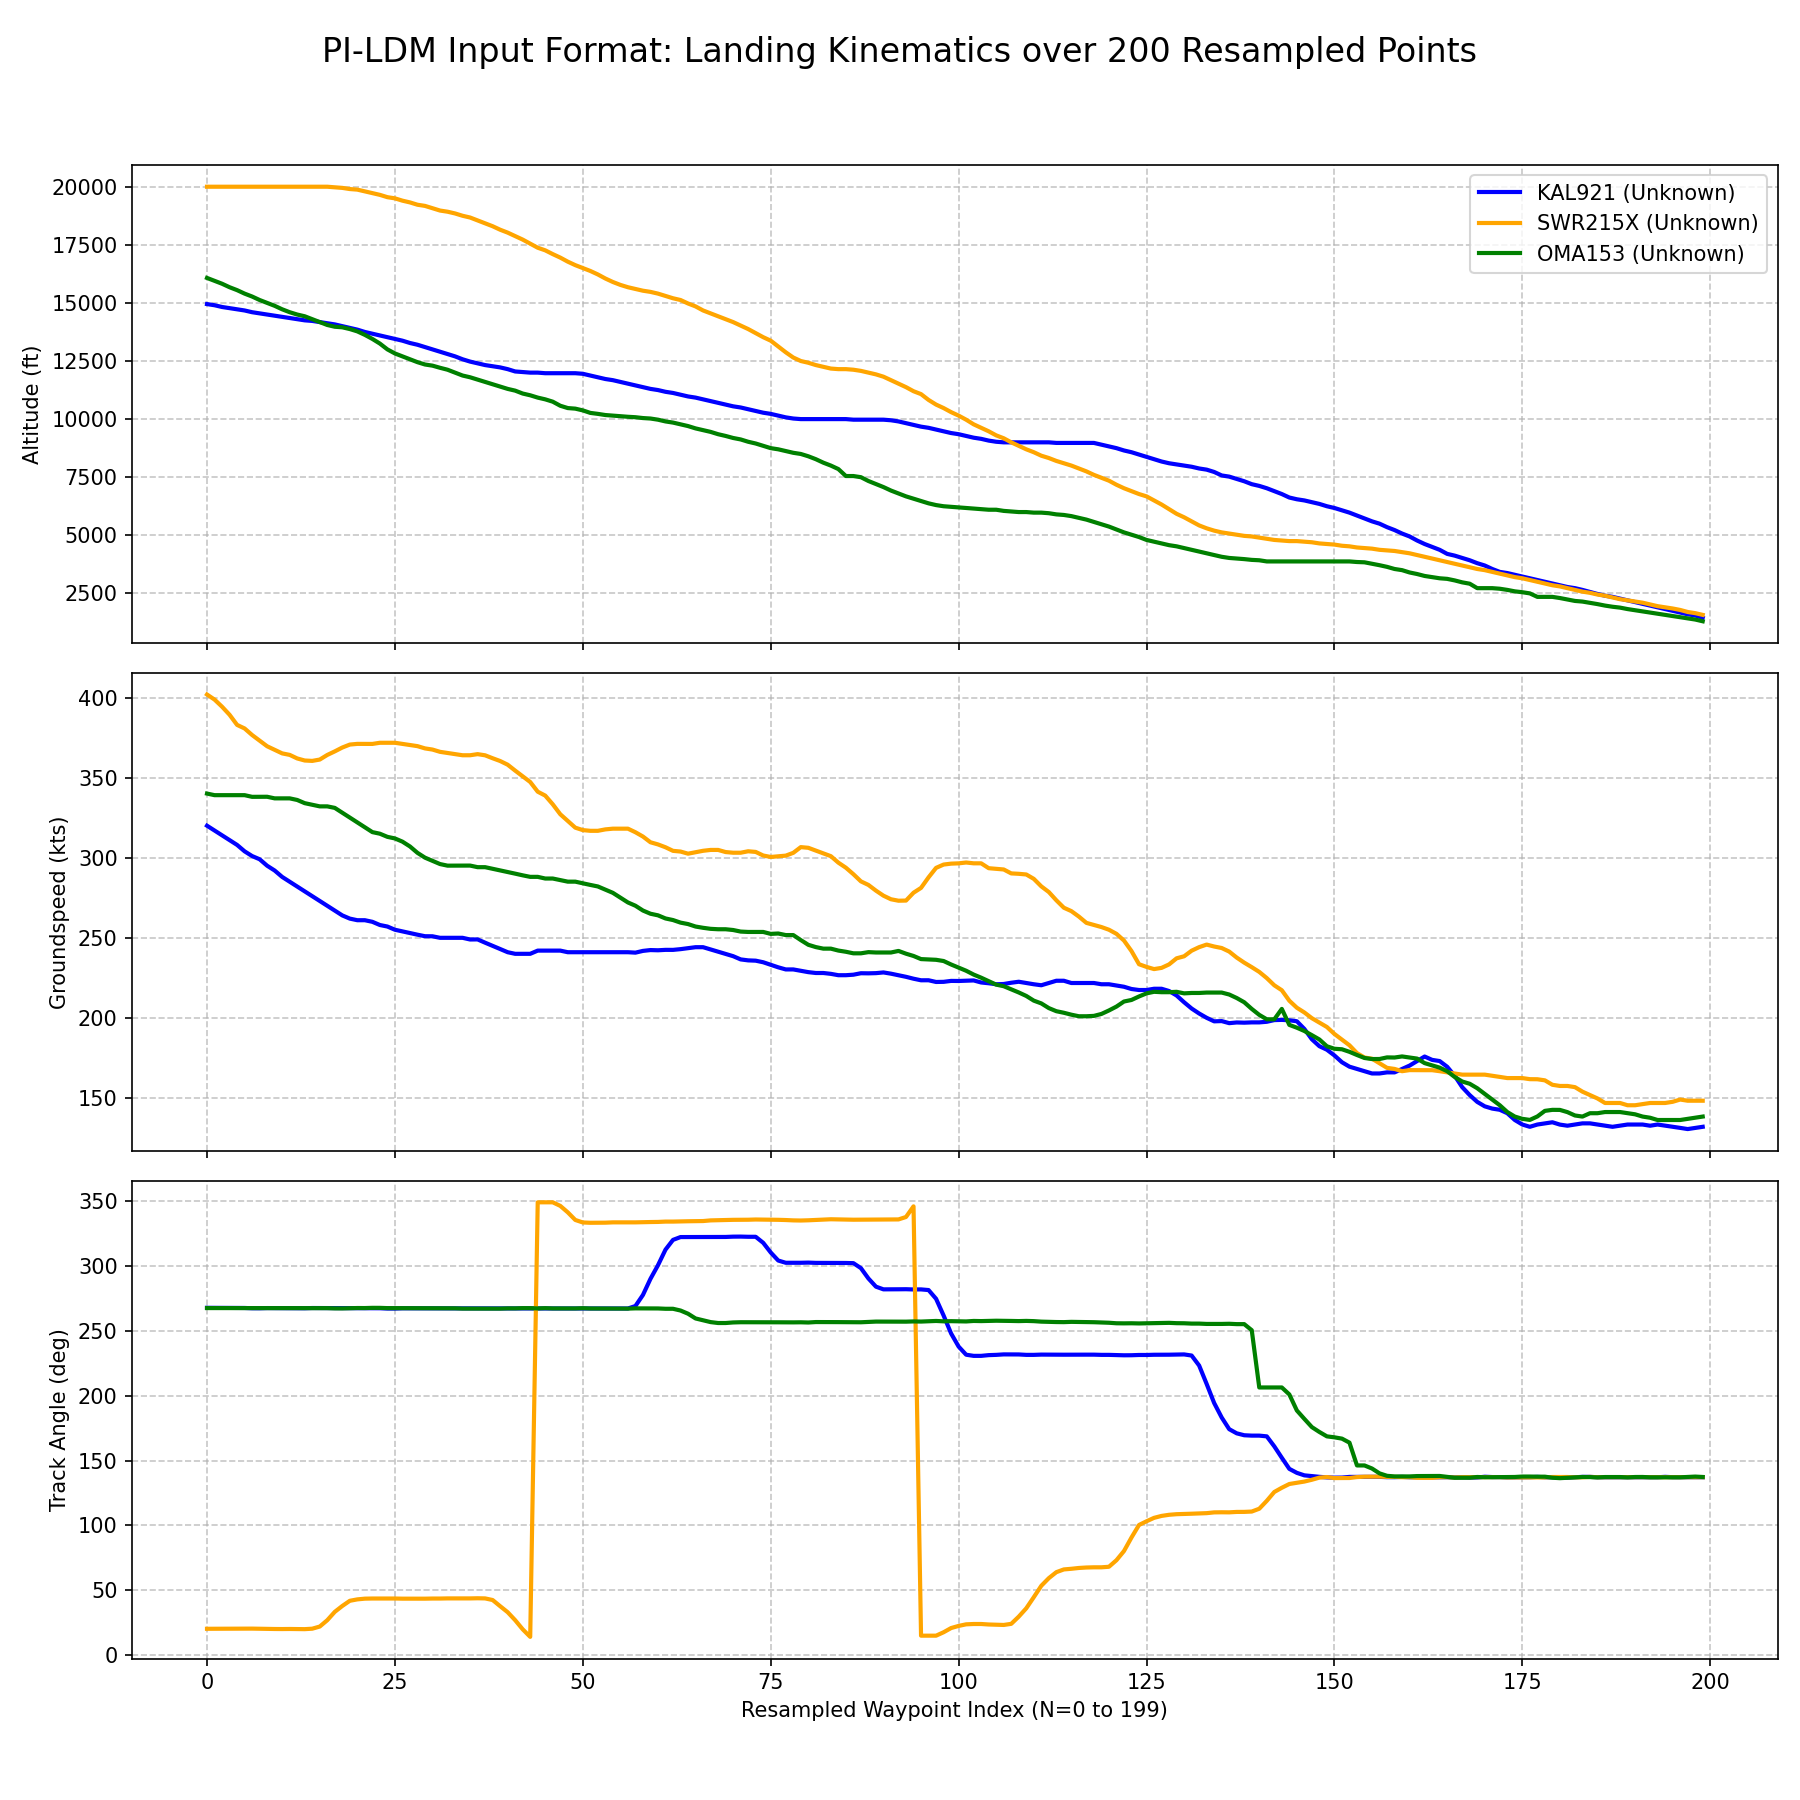
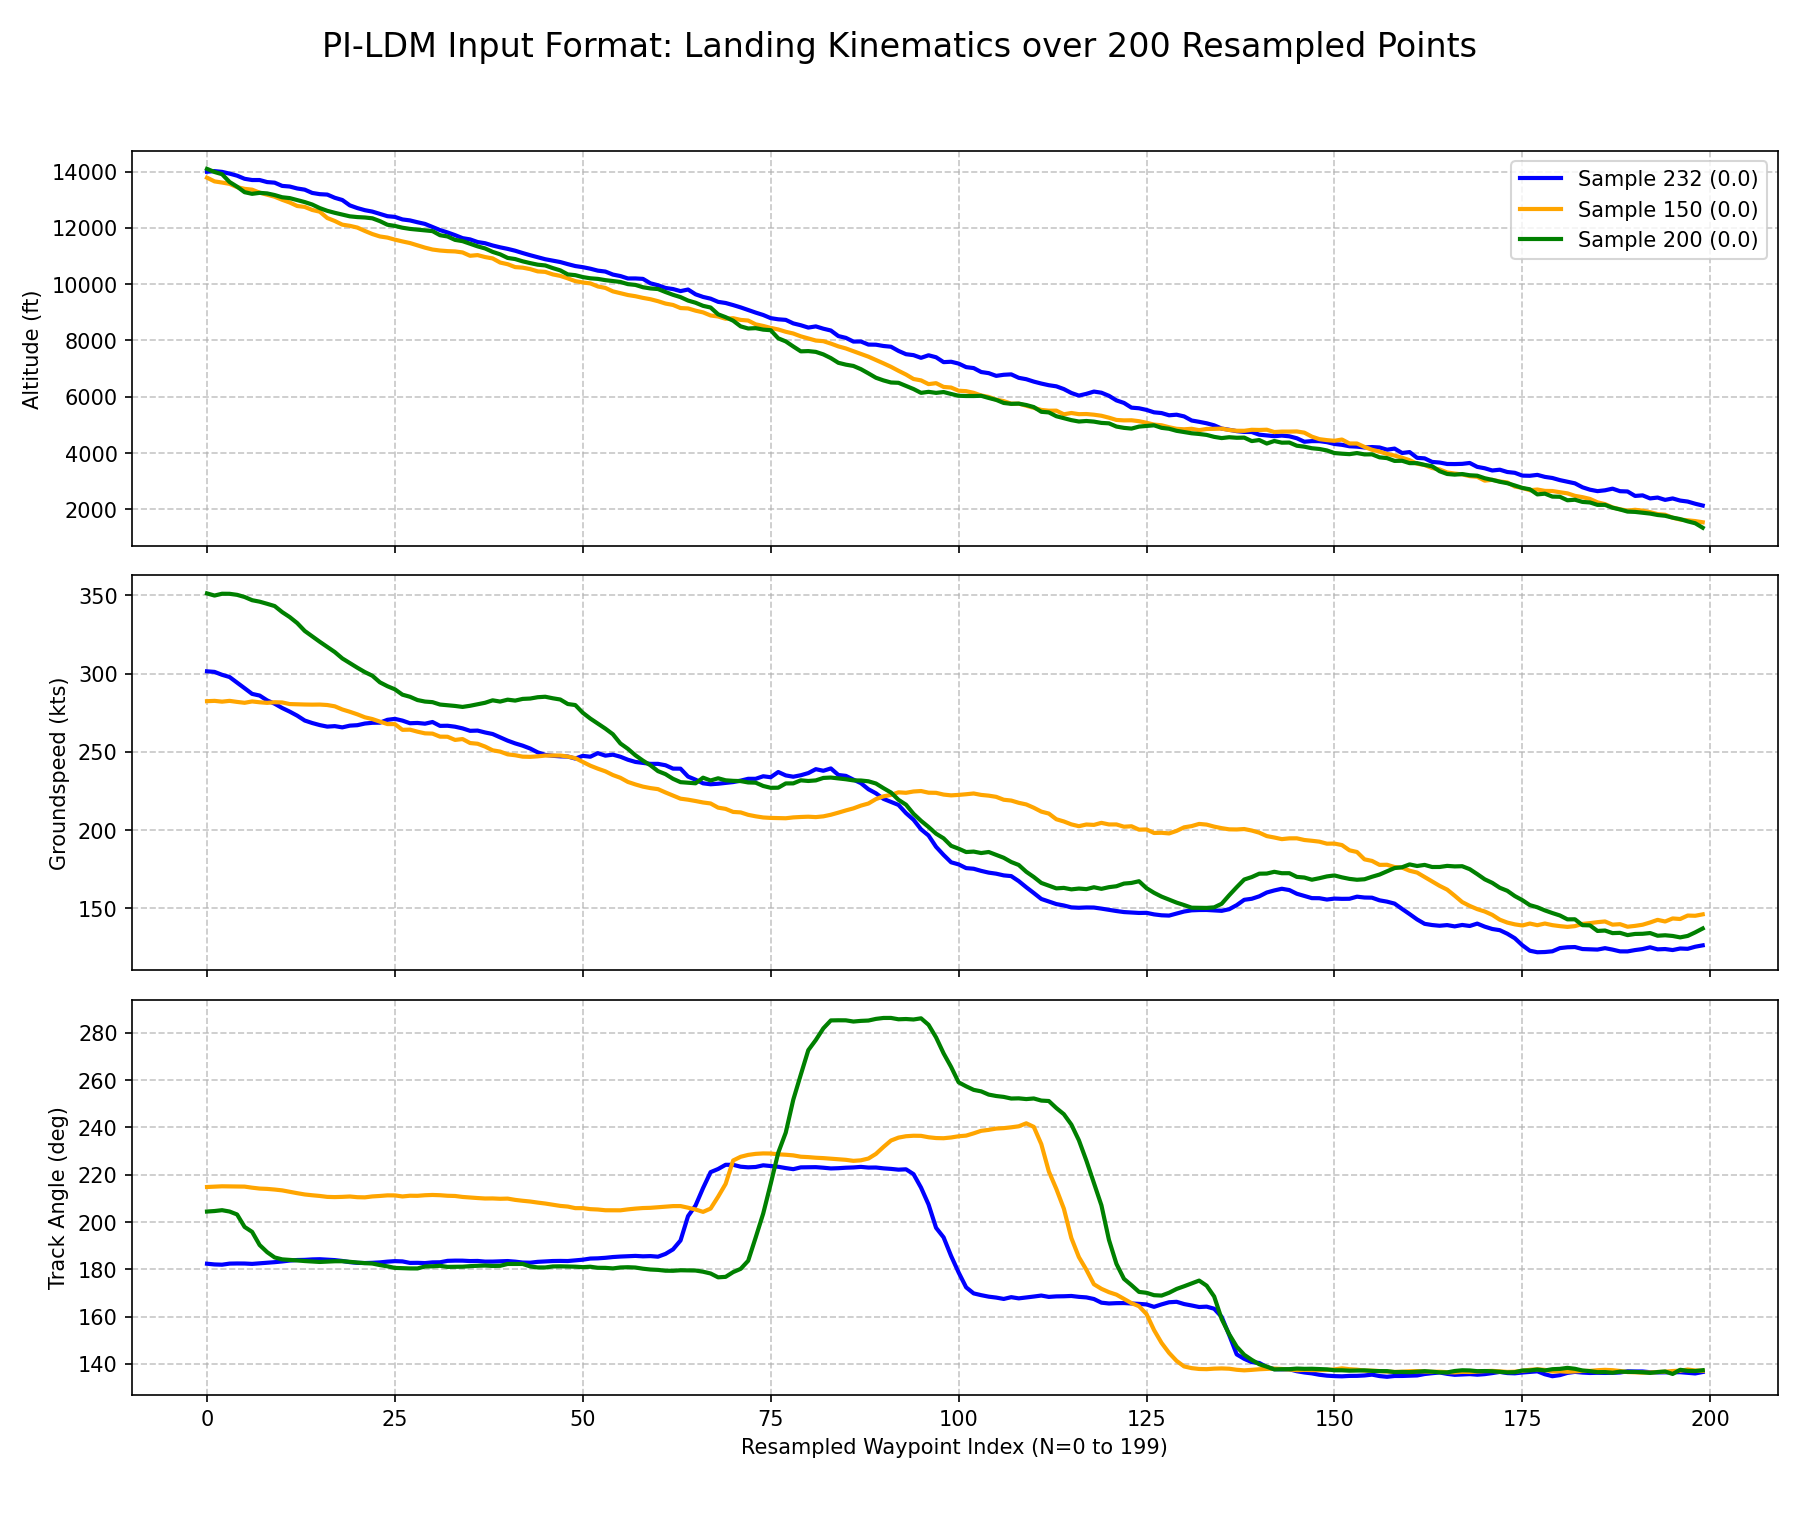
feat: extract more than one cluster

diff --git a/scripts/extract_cluster.py b/scripts/extract_cluster.py
@@ -1,49 +1,104 @@
 import os
 import sys
 import numpy as np
+import pandas as pd
 
 def main():
     if len(sys.argv) < 3:
-        print("Usage: python extract_cluster.py [archivo.npz] [ID_del_cluster]")
-        print("Ejemplo: python extract_cluster.py LSZH_2019_R14_kinematic_200pts_clust5.npz 2")
+        print("Usage: python extract_cluster.py [file.npz or .npy] [cluster_id_1] [cluster_id_2] ...")
+        print("Example 1: python extract_cluster.py LSZH_2019_R14_kinematic_200pts_clust5.npz 2")
+        print("Example 2: python extract_cluster.py LSZH_2019_R14_kinematic_200pts_spatial_5000m.npy 1 3")
         return
 
-    npz_name = sys.argv[1]
-    cluster_id = int(sys.argv[2])
+    file_name = sys.argv[1]
+    cluster_ids = [int(arg) for arg in sys.argv[2:]]
     
     base_dir = os.path.dirname(os.path.dirname(os.path.abspath(__file__)))
     
-    # Try finding the file in processed or clusters directory
-    file_path = os.path.join(base_dir, "data", "clusters", npz_name)
-    if not os.path.exists(file_path):
-        file_path = os.path.join(base_dir, "data", "processed", npz_name)
-        
-    if not os.path.exists(file_path):
-        print(f"Error: {file_path} no encontrado.")
-        return
+    X_target = None
+    meta_target = None
+    
+    if file_name.endswith(".npz"):
+        # Old mode: .npz file contains X and y
+        file_path = os.path.join(base_dir, "data", "clusters", file_name)
+        if not os.path.exists(file_path):
+            file_path = os.path.join(base_dir, "data", "processed", file_name)
+            
+        if not os.path.exists(file_path):
+            print(f"Error: {file_path} not found.")
+            return
 
-    print(f"Cargando dataset agrupado: {file_path}")
-    data = np.load(file_path, allow_pickle=True)
-    X = data['X'].astype(np.float32)
-    y = data['y']
-    
-    # Filter by cluster target
-    mask = (y == cluster_id)
-    X_target = X[mask]
-    
-    if len(X_target) == 0:
-        print(f"Error: No se ha encontrado ninguna trayectoria para el clúster {cluster_id}.")
+        print(f"Loading clustered dataset: {file_path}")
+        data = np.load(file_path, allow_pickle=True)
+        X = data['X'].astype(np.float32)
+        y = data['y']
+        
+        mask = np.isin(y, cluster_ids)
+        X_target = X[mask]
+        
+        meta_file = file_path.replace(".npz", ".csv")
+        if os.path.exists(meta_file):
+            print(f"Loading metadata from: {meta_file}")
+            meta = pd.read_csv(meta_file)
+            meta_target = meta.iloc[mask].reset_index(drop=True)
+        else:
+            print(f"Warning: Metadata file not found: {meta_file}")
+        
+    elif file_name.endswith(".npy"):
+        # New mode: search for individual _c{id}.npy files
+        base_name = file_name.replace(".npy", "")
+        X_list = []
+        meta_list = []
+        for cid in cluster_ids:
+            cluster_file = os.path.join(base_dir, "data", "clusters", f"{base_name}_c{cid}.npy")
+            cluster_csv = os.path.join(base_dir, "data", "clusters", f"{base_name}_c{cid}.csv")
+            
+            if not os.path.exists(cluster_file):
+                print(f"Error: Cluster {cid} file not found: {cluster_file}")
+                return
+            print(f"Loading cluster {cid} from: {cluster_file}")
+            X_c = np.load(cluster_file, allow_pickle=True).astype(np.float32)
+            X_list.append(X_c)
+            
+            if os.path.exists(cluster_csv):
+                meta_c = pd.read_csv(cluster_csv)
+                meta_list.append(meta_c)
+            else:
+                print(f"Warning: CSV file for cluster {cid} not found: {cluster_csv}")
+            
+        if X_list:
+            X_target = np.concatenate(X_list, axis=0)
+        if meta_list:
+            meta_target = pd.concat(meta_list, ignore_index=True)
+    else:
+        print("Error: File must be .npz or .npy")
         return
         
-    print(f"El clúster {cluster_id} tiene {len(X_target)} maniobras únicas.")
+    if X_target is None or len(X_target) == 0:
+        print(f"Error: No trajectories found for clusters {cluster_ids}.")
+        return
+        
+    cluster_str = "_".join([f"c{cid}" for cid in cluster_ids])
+    print(f"Clusters {cluster_ids} have a total of {len(X_target)} unique trajectories.")
     
-    # Salvar el array resultante como un npy limpio compatible con PI-LDM
-    output_filename = npz_name.replace(".npz", f"_C{cluster_id}.npy")
-    output_path = os.path.join(base_dir, "data", "processed", output_filename)
+    # Save the resulting array as a clean npy compatible with PI-LDM
+    if file_name.endswith(".npz"):
+        output_filename = file_name.replace(".npz", f"_{cluster_str}.npy")
+    else:
+        output_filename = file_name.replace(".npy", f"_{cluster_str}.npy")
+        
+    output_path = os.path.join(base_dir, "data", "clusters", output_filename)
     
     np.save(output_path, X_target)
-    print(f"¡Éxito! Maniobras extraídas y guardadas en: {output_path}")
-    print(f"-> Para entrenar tu modelo, configura en train.py: FILE_BASE = '{output_filename.replace('.npy','')}'")
+    
+    if meta_target is not None:
+        csv_output_path = output_path.replace(".npy", ".csv")
+        meta_target.to_csv(csv_output_path, index=False)
+        print(f"Success! Combined trajectories and metadata saved to:\n  {output_path}\n  {csv_output_path}")
+    else:
+        print(f"Success! Combined trajectories saved to: {output_path}")
+        
+    print(f"-> To train your model, set in train.py: FILE_BASE = '{output_filename.replace('.npy','')}'")
 
 if __name__ == "__main__":
     main()

diff --git a/pi_ldm/src/sample.py b/pi_ldm/src/sample.py
@@ -158,7 +158,7 @@ def main():
     
     # Generate x trajectories for a single condition (e.g., Airport: LSZH (0), Type: A320 (0), Weather: 0)
     num_samples = 1000
-    save_file = f"{FILE_BASE}_synthetic_{num_samples}"
+    save_file = f"{FILE_BASE}_synthetic_{num_samples}t"
     cond = torch.tensor([[0.0, 0.0, 0.0]], device=sampler.device).repeat(num_samples, 1)
     
     print(f"Generating {num_samples} trajectories...")

diff --git a/scripts/plot_map.py b/scripts/plot_map.py
@@ -71,7 +71,7 @@ def compute_positions(X, meta, anchor_lat, anchor_lon):
 
 def main():
     # --- CONFIGURATION AREA ---
-    FILE_BASE = "LSZH_2019_R14_kinematic_200pts_spatial_5000m_c1_synthetic_trajectories"
+    FILE_BASE = "LSZH_2019_R14_kinematic_200pts_spatial_5000m_c1_synthetic_1000t"
     #FILE_BASE = "LSZH_2019_R14_kinematic_200pts_clust5_C2"
     AIRPORT_CODE = "LSZH"
     PLOT_MAP_BACKGROUND = False  # Set to True to overlay geographic map tiles (requires contextily)

diff --git a/scripts/plot_npy.py b/scripts/plot_npy.py
@@ -86,7 +86,7 @@ def visualize_trajectories(X_filepath, meta_filepath, num_samples=3):
 if __name__ == "__main__":
     # --- CONFIGURATION AREA ---
     # The base name used in filter_data.py (without extension)
-    FILE_BASE = "LSZH_2019_R14_kinematic_200pts_spatial_5000m_c1_synthetic_trajectories"
+    FILE_BASE = "LSZH_2019_R14_kinematic_200pts_spatial_5000m_c1_synthetic_1000t"
     #FILE_BASE = "sample_trajectory_denoised"
     # --------------------------
 